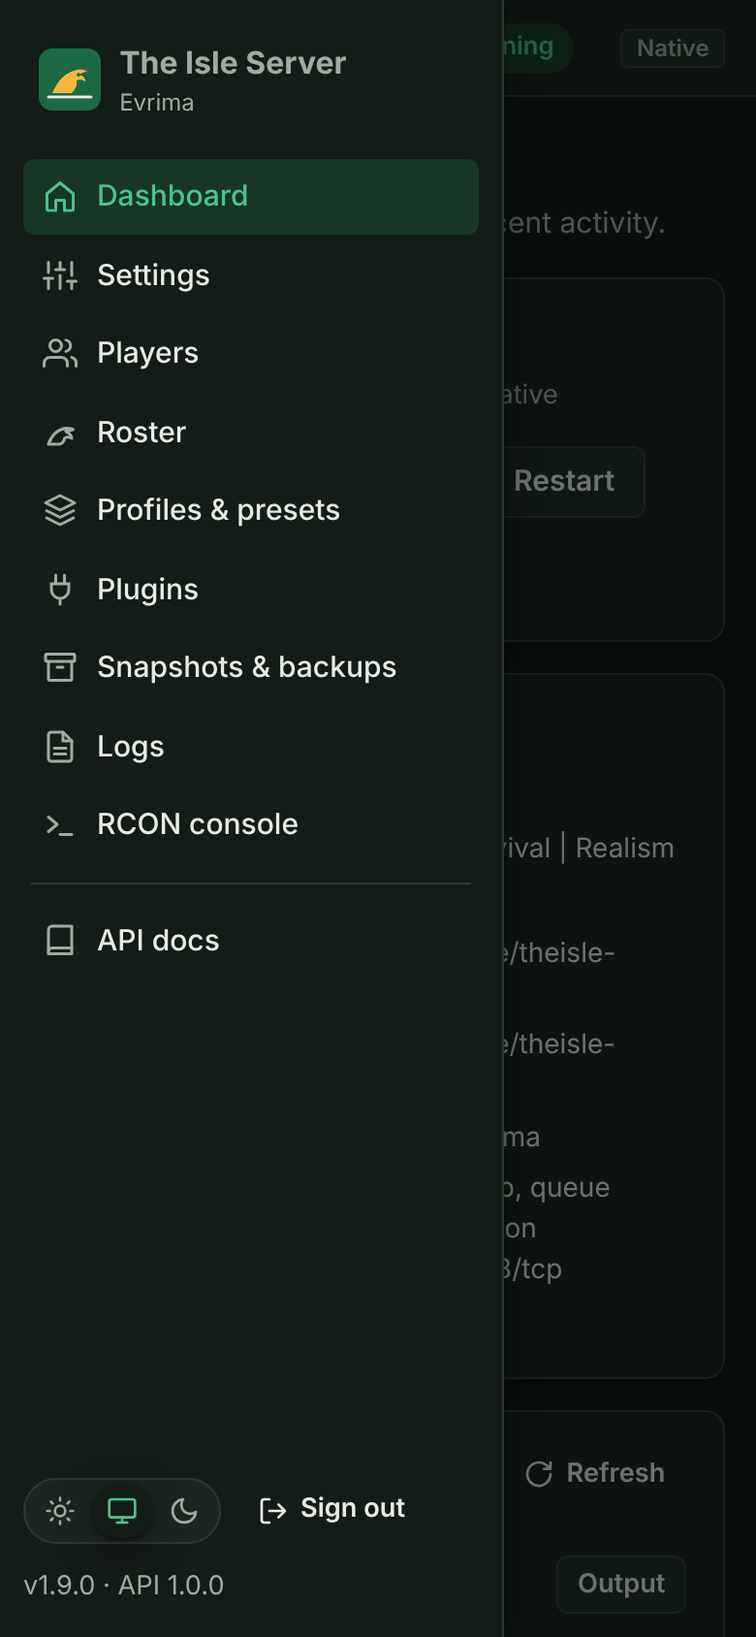
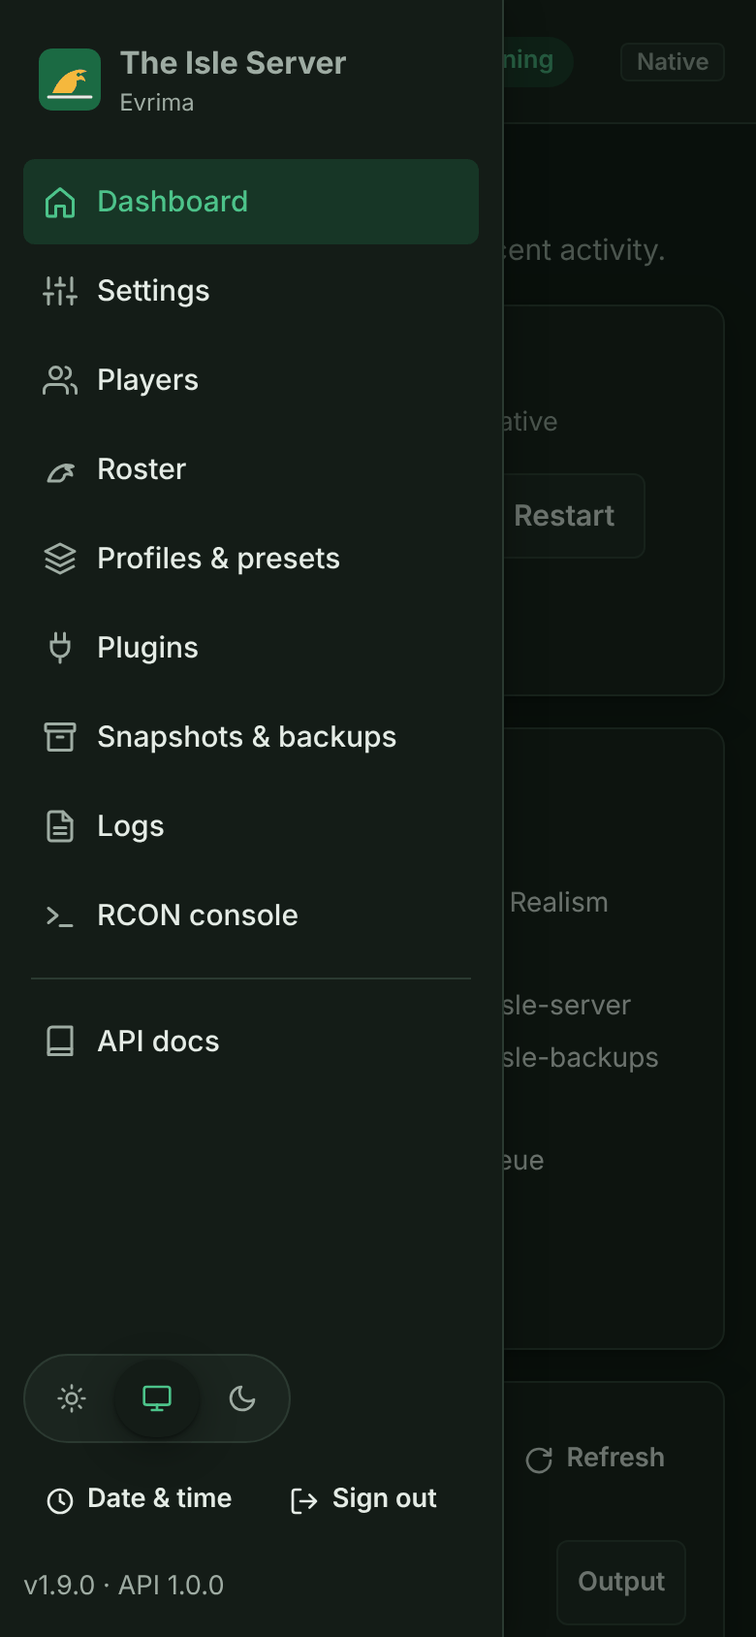
v1.10.0: docs and screenshots (MMM dates), cross-engine CI fixes
- Docs: CONFIGURATION (Logs and time), UI (date & time, peek, any screen),
  TROUBLESHOOTING, DOCKER (/data/logs), MIGRATION and README for the new
  names; PRD 6.16 LOG-01..05, UI-06..08, M15; CHANGELOG 1.10.0; VERSION
- Screenshots regenerated: dates as 08 Nov 2026, the Date & time dialog,
  rotated logs, tap-to-peek, phone landscape, tablet portrait
- Narrow cards stack key/value lists, paths break after '/', no regex
  lookbehind (older Safari)
- Tests: screenshots no longer inject a <style> blocked by the CSP
  (WebKit), /docs is awaited by DOM (Firefox), API log printed on failure,
  ISLE_LOG_DIR from the Docker image cleared where defaults are tested,
  culture-invariant timestamps on Windows PowerShell, installer-cycle
  expects theisle-carry-<mode>_<stamp>; API accept backlog 64

diff --git a/ui/app.js b/ui/app.js
@@ -58,6 +58,15 @@
     do { n /= 1024; i++; } while (n >= 1024 && i < u.length - 1);
     return n.toFixed(n < 10 ? 1 : 0) + " " + u[i];
   }
+  /* text with break opportunities after "/" and "\\" so paths wrap at folder boundaries, not inside names */
+  function breakable(text) {
+    var out = [], s = String(text), start = 0;   // no regex lookbehind: older Safari cannot parse it
+    for (var i = 0; i < s.length; i++) {
+      if (s[i] === "/" || s[i] === "\\") { out.push(s.slice(start, i + 1), document.createElement("wbr")); start = i + 1; }
+    }
+    out.push(s.slice(start));
+    return out;
+  }
   function fmtTime(iso) { return window.IsleTime.format(iso); }
   /* <time> in the chosen zone and format; the full timestamp with zone shows instantly on hover/focus/tap */
   function timeEl(iso, cls) {
@@ -256,7 +265,7 @@
     grid.style.marginTop = "1rem";
     section(infoCard, function () { return api("GET", "/info"); }, function (el, info) {
       var dl = h("dl", { class: "kv" });
-      Object.keys(info).forEach(function (k) { add(dl, [h("dt", { text: k }), h("dd", { text: info[k] })]); });
+      Object.keys(info).forEach(function (k) { add(dl, [h("dt", { text: k }), h("dd", null, breakable(info[k]))]); });
       el.appendChild(Object.keys(info).length ? dl : h("p", { class: "empty", text: "No details" }));
     });
     var jobsHolder = h("div");

diff --git a/ui/styles.css b/ui/styles.css
@@ -234,7 +234,8 @@ input[type="checkbox"], input[type="radio"] { accent-color: var(--primary); widt
 
 dl.kv { display: grid; grid-template-columns: fit-content(45%) minmax(0, 1fr); gap: .35rem 1rem; margin: 0; }
 dl.kv dt { color: var(--muted); font-size: .875rem; }
-dl.kv dd { margin: 0; overflow-wrap: anywhere; font-size: .875rem; min-width: 0; }
+dl.kv dd { margin: 0; overflow-wrap: break-word; font-size: .875rem; min-width: 0; }
+@container (max-width: 320px) { dl.kv { grid-template-columns: minmax(0, 1fr); gap: 0 1rem; } dl.kv dd { margin-bottom: .4rem; } }
 
 table { width: 100%; border-collapse: collapse; }
 th, td { text-align: left; padding: .55rem .6rem; border-bottom: 1px solid var(--border); vertical-align: middle; }

diff --git a/tests/test_logs.py b/tests/test_logs.py
@@ -52,9 +52,12 @@ class StampTest(unittest.TestCase):
 class RotationTest(unittest.TestCase):
     def setUp(self):
         self.dir = tempfile.mkdtemp(prefix="isle-logs-")
+        self.saved_env = os.environ.pop("ISLE_LOG_DIR", None)   # set in the Docker image
 
     def tearDown(self):
         shutil.rmtree(self.dir, ignore_errors=True)
+        if self.saved_env is not None:
+            os.environ["ISLE_LOG_DIR"] = self.saved_env
 
     def names(self, kind=None):
         return [n for n, _ in isle_logs.files_of(self.dir, kind)]
@@ -127,8 +130,9 @@ class RotationTest(unittest.TestCase):
         conf = os.path.join(self.dir, "server.conf")
         with open(conf, "w") as handle:
             handle.write("LOG_DIR=%s\nTIMEZONE=utc\n" % self.dir)
+        env = dict(os.environ); env.pop("ISLE_LOG_DIR", None)
         out = subprocess.run([sys.executable, os.path.join(REPO, "tools", "isle_logs.py"), "--conf", conf, "write", "server", "--tee"],
-                             input=b"hello\nworld\n", stdout=subprocess.PIPE, check=True).stdout
+                             input=b"hello\nworld\n", stdout=subprocess.PIPE, check=True, env=env).stdout
         self.assertEqual(out.replace(b"\r", b""), b"hello\nworld\n")
         (name,) = self.names("server")
         with open(os.path.join(self.dir, name)) as handle:

diff --git a/tools/isle_api.py b/tools/isle_api.py
@@ -996,6 +996,7 @@ def make_handler(api, token, cors, tls, spec):
 class Server(ThreadingMixIn, HTTPServer):
     daemon_threads = True
     allow_reuse_address = True
+    request_queue_size = 64   # browsers open several connections at once
 
 
 def load_token(path):

diff --git a/PRD.md b/PRD.md
@@ -3,7 +3,7 @@
 | | |
 |---|---|
 | **Document version** | 1.4 |
-| **Product version** | 1.9.0 (released) |
+| **Product version** | 1.10.0 (released) |
 | **Status** | Approved. This is the source of truth for scope and acceptance |
 | **Owner** | kyroskoh |
 | **Last updated** | 2026-11-07 |
@@ -293,8 +293,21 @@ Priority: **M** = must, **S** = should, **C** = could.
 | UI-02 | M | **UX best practices** | Clear status and next action. Confirmation for destructive actions. Progress for jobs with live output. Toasts for results. Disabled buttons while busy. Form validation with inline errors. Keyboard navigation, visible focus, ARIA labels and live regions, skip link. Responsive down to phones. `prefers-reduced-motion` |
 | UI-03 | M | **Themes** | Light, dark and **system** (follows `prefers-color-scheme` live), saved per browser. Palette: jungle green primary + amber accent with WCAG AA contrast in both themes |
 | UI-04 | M | **Run optionally** | `isle-server ui [--host H] [--port P] [--open]` / `IsleServer.ps1 UI` (+ `UI.bat`), `ui-token [--rotate]`. Installer `--ui` / `-UI` adds a boot service (systemd `theisle-ui` / scheduled task `TheIsleServer-UI`). `UI_HOST`, `UI_PORT` in `server.conf`. The scripts keep working without the UI |
+| UI-06 | M | **Date & time display** | Per-browser time zone (server / browser / UTC) and date format (presets with MMM month, custom patterns, live preview); every date shows its full timestamp with zone on hover/focus |
+| UI-07 | M | **Instant peek** | Any clipped or ellipsis text (or `data-peek`) shows in full immediately on hover, keyboard focus or touch tap; inside the viewport; `role=tooltip` + `aria-describedby` |
+| UI-08 | M | **Responsive everywhere** | No overflow, clipped text without peek, mid-word breaks, sideways page or table scrolling on Chromium, Firefox and WebKit at 320–1920 px, phones and tablets in both orientations, with touch; long data seeded (`tests/test_ui_overflow.mjs`) |
 | UI-05 | M | Tests | `tests/test_api.py` (offline, fake launcher: auth, lockout, validation, problem+json, jobs, config rollback, spec covers every route, headers, static path traversal). `tests/test_ui.mjs` (Playwright: login, navigation, theme light/dark/system, server actions, phone layout, /docs, CSP, screenshots) |
 | DEB-01 | M | **Debian verification** | Every Linux test suite also runs on Debian: the real `debian:bookworm-slim` image in CI (container smoke, e2e, launcher, installer cycle, unit suites inside the image), and a native install with real apt dependencies on `debian:bookworm` |
+
+### 6.16 Logs, rotation and time zone (LOG)
+
+| ID | Pri | Requirement | Acceptance criteria |
+|---|---|---|---|
+| LOG-01 | M | **`TIMEZONE=local\|utc`** | One clock for log timestamps and dated names, in both launchers, the installers, the API and the snapshot tool. Docker gets the host's UTC offset for `local`. `check` refuses other values |
+| LOG-02 | M | **Log file names** | Every log file is `KIND_yyyymmdd_hhmmss.log` in `LOG_DIR` (default `<scripts>/logs`, Docker `/data/logs`): `launcher` (commands that change something; only the first argument, never values), `server` (game console: watchdog, systemd with the journal, Docker), `ui` (API access log). Same-second files get `_N` past the highest N |
+| LOG-03 | M | **Rotation** | A new file once the current one passes `LOG_MAX_SIZE_MB`; the newest `LOG_RETENTION` files per kind are kept; the game's `TheIsle-backup-*.log` follow the same retention |
+| LOG-04 | M | **Dated names** | Backups, final backups, snapshots, replaced worlds and config backups end with `_yyyymmdd_hhmmss`; older `-yyyymmdd-hhmmss` names are still recognised |
+| LOG-05 | M | **Access** | `isle-server logs [-f] [game\|server\|launcher\|ui\|list]`, `IsleServer.ps1 Logs launcher\|ui\|list`, `GET /api/v1/log-files[/{name}]`, the UI Logs page |
 
 ## 7. CLI contract
 
@@ -326,7 +339,7 @@ With `RUNTIME=docker` (or `--docker` / `-Runtime Docker`) the **same commands** 
 | NFR-02 | Encoding | `.ps1` files are ASCII-only. Line endings enforced by `.gitattributes` (LF for sh/py/conf, CRLF for ps1/bat) |
 | NFR-03 | Security | Least privilege (G5). Secrets never passed as process arguments by the managers. `server.conf` git-ignored |
 | NFR-04 | Reliability | SteamCMD retried 3 times. Watchdog restart. systemd `Restart=on-failure`. Task `RestartCount` |
-| NFR-05 | Observability | All actions logged with timestamps. Console output kept in `.isle-scripts/console.log` (Linux background mode) |
+| NFR-05 | Observability | All actions logged with timestamps in `TIMEZONE`. Rotated `KIND_yyyymmdd_hhmmss.log` files in `LOG_DIR` (§6.16) |
 | NFR-06 | Maintainability | Any new config key goes into both renderers + the example + CONFIGURATION.md (CONTRIBUTING.md) |
 | NFR-07 | Quality gates | ShellCheck clean, PS 5.1 parser clean, PSScriptAnalyzer (Error) clean, CI smoke tests pass |
 | NFR-08 | Transparency | The only downloads are SteamCMD, the VC++ runtime, Python (optional) and the game via SteamCMD |
@@ -400,6 +413,7 @@ With `RUNTIME=docker` (or `--docker` / `-Runtime Docker`) the **same commands** 
 | M11 Uninstall data choices (v1.6.0) | INS-20: keep/remove per data category, menu, safety backup, both installers, CI | ✅ Done (v1.6.0). Linux verified by the cycle test (70 checks). Windows native paths covered by Windows CI; Windows Docker-volume paths parse-checked only |
 | M12 Config tools & plugins (v1.7.0) | CFX-01 – CFX-09, PLG-01 – PLG-07 | ✅ Done (v1.7.0). Linux + PowerShell 7 verified locally, Windows PowerShell 5.1 by CI. Live RCON pushes and real Discord/NAS targets need a live server (M6) |
 | M13 Snapshots & mode-switch data choices (v1.8.0) | MIG-01 – MIG-08 | ✅ Done (v1.8.0). Linux cycle (92 checks), snapshot tests, PowerShell 7 suites locally; Windows PowerShell 5.1 and Windows Docker Desktop paths via CI/field test (M6) |
+| M15 Logs, time zone, date display, peek & responsive (v1.10.0) | LOG-01 – LOG-05, UI-06 – UI-08 | ✅ Done (v1.10.0). `tests/test_logs.py`, `tests/test_logs.ps1`, UI suites on Chromium/Firefox/WebKit in CI |
 | M14 API, web UI & Debian verification (v1.9.0) | API-01 – API-05, UI-01 – UI-05, DEB-01 | ✅ Done (v1.9.0). API and UI suites on Linux and in the Debian image, Playwright UI test in CI, native Debian install job. Systemd `theisle-ui` unit and the Windows `TheIsleServer-UI` task need a field test (M6) |
 
 ## 12. Traceability matrix
@@ -429,6 +443,8 @@ With `RUNTIME=docker` (or `--docker` / `-Runtime Docker`) the **same commands** 
 | API-01 – API-05 | `tools/isle_api.py` (spec generated at `/openapi.json`) | `tests/test_api.py` | ✅ v1.9 |
 | UI-01 – UI-05 | `ui/`, `ui` command in both launchers, installer `--ui` / `-UI` | `tests/test_ui.mjs` (Playwright), `tests/test_native_debian.sh`, CI | ✅ v1.9 |
 | DEB-01 | CI `docker` (real Debian image), `debian-native` job | `tests/test_native_debian.sh`, CI | ✅ v1.9 |
+| LOG-01 – LOG-05 | `tools/isle_logs.py`, `file_log`/`log_writer` (Linux), `Write-FileLog` (Windows), installers, API | `tests/test_logs.py`, `tests/test_logs.ps1`, `tests/test_api.py` | ✅ v1.10 |
+| UI-06 – UI-08 | `ui/datetime.js`, `ui/peek.js`, `ui/styles.css` | `tests/test_ui.mjs`, `tests/test_ui_overflow.mjs` (3 engines in CI) | ✅ v1.10 |
 | CFG-01/02/07 | `load_config`, `Import-ServerConfig` | CI smoke | Done |
 | CFG-03/04 | `render_*_ini`/`configure`, `Get-*Ini`/`Set-ServerConfig` | CI smoke (grep sections) | Done |
 | CFG-05 | `check_config` / `Test-ServerConfig`, called by configure/run/start/install | CI smoke (positive + negative) | Done (v1.1) |

diff --git a/CHANGELOG.md b/CHANGELOG.md
@@ -6,6 +6,48 @@ uses [Semantic Versioning](https://semver.org/spec/v2.0.0.html).
 
 ## [Unreleased]
 
+## [1.10.0] - 2026-11-08
+
+Planned in [PRD.md](PRD.md) as milestone M15 (LOG-01 to LOG-05, UI-06 to UI-08).
+
+### Added
+- **`TIMEZONE=local|utc`** in `server.conf`: one clock for log timestamps and dated file names, in both launchers,
+  the installers, the API and the snapshot tool. Docker gets the host's UTC offset for `local`.
+- **Log files `KIND_yyyymmdd_hhmmss.log` with rotation** in `LOG_DIR` (default `<scripts>/logs`, Docker `/data/logs`):
+  - `launcher_*`: every command that changes something, on Linux and Windows;
+  - `server_*`: the game console in watchdog, systemd and Docker mode, still also in the journal and docker logs;
+  - `ui_*`: the web UI access log.
+  - **Rotation:** a new file starts past `LOG_MAX_SIZE_MB`, and the newest `LOG_RETENTION` files per kind are kept.
+    The game's `TheIsle-backup-*.log` follow the same retention.
+  - **Commands:** `isle-server logs [-f] [game|server|launcher|ui|list]`, `IsleServer.ps1 Logs launcher|ui|list`.
+  - **API:** `GET /api/v1/log-files` and `/log-files/{name}`, and a log picker on the Logs page.
+- **Dated names end with `_yyyymmdd_hhmmss`:** `theisle-backup_…`, `theisle-final_…`, `theisle-snapshot_…`,
+  `Saved.pre-restore_…`, `Saved.pre-snapshot_…`, `server.conf.bak_…`. Older names are still recognised.
+- **Web UI Date & time:** time zone (server, this browser or UTC) and date format, with presets showing the month as
+  three letters (`08 Nov 2026, 14:30:05`) and custom patterns with a live preview, saved per browser. Hovering any
+  date shows the full timestamp with its zone.
+- **Instant peek:** cut-off text (dinosaur names, the server name, ...) shows in full immediately on hover, keyboard
+  focus or a tap.
+- **Layout audit** `tests/test_ui_overflow.mjs`: long data on every page, dialog and toast at 320–1920 px, on phones
+  and tablets in both orientations, in light and dark. CI runs it and `tests/test_ui.mjs` on Chromium, Firefox and
+  WebKit.
+- `/api/v1/status` reports `timezone`, `utc_offset_minutes` and `zone`.
+- **Tests:** `tests/test_logs.py`, `tests/test_logs.ps1`, plus API, date-format and peek tests.
+
+### Changed
+- **Responsive layout:**
+  - Tables turn into labelled cards based on their own width (container queries, with a fallback).
+  - Buttons wrap at word boundaries, long values wrap inside their box, and badges stay whole.
+  - Touch screens get 44 px targets, mobile browsers use `dvh` and safe areas, and short landscape screens drop
+    the sticky bars.
+- **Documentation:** screenshots regenerated with MMM dates, including the Date & time dialog, rotated logs, peek,
+  a phone in landscape and a tablet in portrait.
+
+### Fixed
+- Text overflowing chips, cards and buttons, mid-word breaks, and sideways page scrolling caused by screen-reader
+  cells in tables.
+- Two log files rotated within the same second could prune the newest one.
+
 ## [1.9.0] - 2026-11-08
 
 Planned in [PRD.md](PRD.md) as milestone M14 (requirements API-01 to API-05, UI-01 to UI-05, DEB-01). Guide: [UI.md](UI.md).

diff --git a/MIGRATION.md b/MIGRATION.md
@@ -12,7 +12,7 @@ same on Linux and Windows, natively and in Docker:
 
 | Part | Contents | Notes |
 |---|---|---|
-| `worlds` | `TheIsle/Saved` (without Logs/Crashes) | Never overwrites an existing world unless you pass `--overwrite`. The old world is then kept as `Saved.pre-snapshot-<time>` |
+| `worlds` | `TheIsle/Saved` (without Logs/Crashes) | Never overwrites an existing world unless you pass `--overwrite`. The old world is then kept as `Saved.pre-snapshot_<yyyymmdd_hhmmss>` |
 | `backups` | Backup archives | Existing files with the same name are kept |
 | `settings` | `server.conf` | **Merged**, without machine-specific keys: paths, `RUNTIME`, `DOCKER_IMAGE`/`DOCKER_BUILD`, `PUID`/`PGID`, `MULTIHOME_IP`, `UI_HOST`/`UI_PORT`. Add `--all-settings` to take everything. The current file is backed up first |
 | `overrides` | `config/overrides/*.ini` | Replaced files are kept as `.bak` |
@@ -70,19 +70,19 @@ Snapshots go to the `snapshots/` folder next to the scripts by default (or `--ou
 **3. On the new machine**, install straight from the snapshot, in either mode:
 
 ```bash
-sudo ./linux/install.sh --docker --from-snapshot theisle-snapshot-20261108-120000.tar.gz
-sudo ./linux/install.sh --native --from-snapshot theisle-snapshot-20261108-120000.tar.gz --start
+sudo ./linux/install.sh --docker --from-snapshot theisle-snapshot_20261108_120000.tar.gz
+sudo ./linux/install.sh --native --from-snapshot theisle-snapshot_20261108_120000.tar.gz --start
 ```
 ```powershell
-.\windows\Install.ps1 -Native -FromSnapshot C:\Users\me\Downloads\theisle-snapshot-20261108-120000.tar.gz
+.\windows\Install.ps1 -Native -FromSnapshot C:\Users\me\Downloads\theisle-snapshot_20261108_120000.tar.gz
 ```
 
 Or restore into an existing install:
 
 ```bash
-isle-server snapshot info  theisle-snapshot-...tar.gz          # what's inside, where it came from
-isle-server snapshot restore theisle-snapshot-...tar.gz --stop # --stop stops the server first
-isle-server snapshot restore theisle-snapshot-...tar.gz --include worlds --overwrite
+isle-server snapshot info  theisle-snapshot_...tar.gz          # what's inside, where it came from
+isle-server snapshot restore theisle-snapshot_...tar.gz --stop # --stop stops the server first
+isle-server snapshot restore theisle-snapshot_...tar.gz --include worlds --overwrite
 ```
 
 The game files are never part of a snapshot. The new machine downloads them with SteamCMD (or the Docker
@@ -110,7 +110,7 @@ Installer options: `--data copy|move|fresh`, `--carry LIST`, `--overwrite`, `--f
 
 ## Safety
 
-- A world is never overwritten unless you ask, and a replaced world is kept as `Saved.pre-snapshot-<time>`.
+- A world is never overwritten unless you ask, and a replaced world is kept as `Saved.pre-snapshot_<yyyymmdd_hhmmss>`.
 - `move` only clears what was actually restored, and keeps the snapshot as a safety copy.
 - Restore refuses to run while the server is running (or stops it with `--stop`). It also refuses archives
   with absolute paths, `..`, links or an unknown format version.

diff --git a/UI.md b/UI.md
@@ -63,8 +63,29 @@ plain text.
 | Profiles & presets | Apply a profile, or several presets in order |
 | Plugins | Search, install, enable/disable, update, remove, configure, plugin presets |
 | Snapshots & backups | Create, restore (choose parts, overwrite, stop first) and delete snapshots; back up now |
-| Logs | Last 100–2000 lines, with auto-refresh |
+| Logs | The game's log or any rotated `launcher_` / `server_` / `ui_` log file, last 100–2000 lines, with auto-refresh |
 | RCON console | Send RCON commands to the running server |
+
+### Date & time, cut-off text and screen sizes
+
+- **Date & time** (sidebar): show times in **server time**, **this browser's** time zone or **UTC**, with a date format
+  of your choice. The presets all show the month as three letters (`08 Nov 2026, 14:30:05` by default), and custom
+  patterns use `yyyy yy MMMM MMM MM M dd d EEEE EEE HH H hh h mm ss a ZZ 'text'`. The choice is saved in this browser.
+  Hovering or focusing any date shows the full timestamp with its zone.
+- **Peek:** text that is cut off with "…" (long dinosaur names, the server name ...) shows in full **immediately** on
+  hover, keyboard focus or a tap, with no tooltip delay.
+- **Any screen:** phones and tablets in portrait and landscape, and desktops up to wide screens. Tables turn into
+  labelled cards when their space gets narrow, buttons grow to 44 px on touch screens, and nothing scrolls sideways.
+  Long names, IDs and paths wrap instead of overflowing. This is checked on every change in Chromium (Chrome, Edge),
+  Firefox and WebKit (Safari) at 320–1920 px (`tests/test_ui_overflow.mjs`).
+
+| Date & time | Logs (rotated files) |
+|---|---|
+| ![Date & time preferences](docs/images/ui/date-time.png) | ![Logs page with a server_yyyymmdd_hhmmss.log file](docs/images/ui/logs.png) |
+
+| Tap to peek (phone) | Phone, landscape | Tablet, portrait |
+|---|---|---|
+| ![Tapping the cut-off server name shows it in full](docs/images/ui/phone-peek-dark.png) | ![Phone in landscape](docs/images/ui/phone-landscape.png) | ![Tablet in portrait](docs/images/ui/tablet-portrait.png) |
 
 ### Screenshots
 
@@ -107,9 +128,9 @@ Changed fields are highlighted until you save. Machine-specific keys sit read-on
 
 **Logs and RCON console.**
 
-| Logs | RCON console |
-|---|---|
-| ![Logs page](docs/images/ui/logs.png) | ![RCON console](docs/images/ui/console.png) |
+| RCON console |
+|---|
+| ![RCON console](docs/images/ui/console.png) |
 
 **On a phone.** The layout adapts and the menu slides in.
 

diff --git a/README.md b/README.md
@@ -34,6 +34,9 @@ dedicated server on **Windows**, **Linux** and **Docker**, all driven from one s
 - **Optional web UI and REST API** (`isle-server ui`, `UI.bat`, or at boot with `install.sh --ui` / `Install.bat -UI`).
   Dashboard, settings, players, roster, profiles, plugins, snapshots, logs and an RCON console, with light/dark/system
   themes. The OpenAPI 3.1 docs at `/docs` have a "Try it" form. It listens on localhost only and needs a token. See [UI.md](UI.md).
+- **Logs with rotation and a choice of clock.** Every log file is `KIND_yyyymmdd_hhmmss.log` (launcher, game console, web UI),
+  rotated by size and pruned to a set count. `TIMEZONE=local|utc` sets the clock, and backups and snapshots carry the
+  same `_yyyymmdd_hhmmss` suffix.
 - **Launchers** for start, stop, restart, status, logs and a console mode.
 - **Watchdog** that restarts the server if it crashes. On Linux this is systemd `Restart=on-failure` or the built-in watchdog. On Windows it's a scheduled task plus a watchdog loop.
 - **Auto-update** through SteamCMD before each start (optional).
@@ -88,7 +91,7 @@ Then forward these ports on your router or cloud firewall:
 | Stop (saves first) | `sudo systemctl stop theisle-server` or `isle-server stop` | `Stop.bat` |
 | Restart | `isle-server restart` | `Restart.bat` |
 | Status | `isle-server status` | `Status.bat` |
-| Follow the log | `isle-server logs -f` | `IsleServer.ps1 Logs -Follow` |
+| Follow the log | `isle-server logs -f` (`logs server\|launcher\|ui\|list`) | `IsleServer.ps1 Logs -Follow` (`Logs launcher\|ui\|list`) |
 | Update the game | `isle-server stop && isle-server update && isle-server start` | `Stop.bat`, then `Update.bat`, then `Start.bat` |
 | Backup | `isle-server backup` | `Backup.bat` |
 | Restore | `isle-server restore <file.tar.gz>` | `Restore.bat -Path <file.zip or .tar.gz>` |

diff --git a/CONFIGURATION.md b/CONFIGURATION.md
@@ -273,6 +273,30 @@ Replace them only if the developers announce new values.
 | `BACKUP_RETENTION` | `10` | Number of backup archives to keep (0 = all) |
 | `SAVE_BEFORE_STOP` | `true` | Send RCON `save` before stopping or backing up |
 
+## Logs and time
+
+| Key | Default | Description |
+|---|---|---|
+| `TIMEZONE` | `local` | `local` or `utc`: the clock for log timestamps and for the `_yyyymmdd_hhmmss` suffix of dated files |
+| `LOG_DIR` | *(empty)* | Folder for log files. Empty = `<scripts>/logs` (Docker: `/data/logs`). Machine-specific |
+| `LOG_RETENTION` | `14` | Log files kept per kind (`launcher`, `server`, `ui`), and the game's own `TheIsle-backup-*.log`. `0` = keep all |
+| `LOG_MAX_SIZE_MB` | `20` | A new log file starts once the current one is bigger than this. `0` = no limit |
+
+Every log file is named `KIND_yyyymmdd_hhmmss.log`, for example `server_20261108_143000.log` (a second file in the
+same second gets `_1`, `_2` ...). Dated files use the same suffix:
+
+| File | Name |
+|---|---|
+| Backups | `theisle-backup_20261108_143000.tar.gz` (Windows `.zip`) |
+| Final backup on uninstall | `theisle-final_20261108_143000.tar.gz` |
+| Snapshots | `theisle-snapshot_20261108_143000.tar.gz` |
+| Replaced world | `Saved.pre-restore_20261108_143000`, `Saved.pre-snapshot_20261108_143000` |
+| Config backup | `server.conf.bak_20261108_143000` |
+
+Files with the older `-yyyymmdd-hhmmss` names are still found, restored and pruned. In Docker mode with `TIMEZONE=local`
+the container gets the host's UTC offset. The web UI has its own per-browser **Date & time** setting (server time,
+browser time or UTC, and the date format); see [UI.md](UI.md).
+
 ## Web UI
 
 Used by `isle-server ui` / `IsleServer.ps1 UI` and the `theisle-ui` service (see [UI.md](UI.md)). Both keys are

diff --git a/TROUBLESHOOTING.md b/TROUBLESHOOTING.md
@@ -2,9 +2,13 @@
 
 Start with the logs:
 
-- Server log: `<SERVER_DIR>/TheIsle/Saved/Logs/TheIsle.log` (`isle-server logs -f`, or `IsleServer.ps1 Logs -Follow`)
-- Linux service: `journalctl -u theisle-server -f`
-- Linux background mode: `<SERVER_DIR>/.isle-scripts/console.log`
+- Game log: `<SERVER_DIR>/TheIsle/Saved/Logs/TheIsle.log` (`isle-server logs -f`, or `IsleServer.ps1 Logs -Follow`)
+- This project's logs, in `LOG_DIR` (default `<scripts>/logs`, Docker `/data/logs`), named `KIND_yyyymmdd_hhmmss.log`:
+  `server_*` (game console, Linux), `launcher_*` (every start/stop/update/backup/config change), `ui_*` (web UI access log).
+  `isle-server logs list`, `isle-server logs server -f`, `isle-server logs launcher` (Windows: `IsleServer.ps1 Logs launcher|ui|list`),
+  or the **Logs** page of the web UI
+- Linux service: `journalctl -u theisle-server -f` (the console also goes to `server_*.log`)
+- Timestamps use `TIMEZONE` (local or utc) from `server.conf`
 
 ## Server doesn't appear in the in-game server list
 

diff --git a/DOCKER.md b/DOCKER.md
@@ -144,6 +144,7 @@ the world from it when the native server has no world yet. See
 /data/server/              game files + TheIsle/Saved (world, logs, ini files)
 /data/steamcmd/            SteamCMD
 /data/backups/             backup archives
+/data/logs/                server_*.log (game console) and launcher_*.log, KIND_yyyymmdd_hhmmss.log, rotated
 /data/home/                HOME of the server user (steamclient.so)
 ```
 
